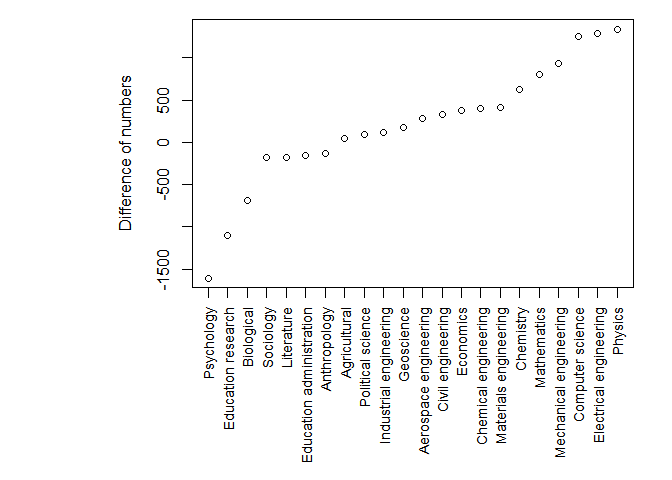
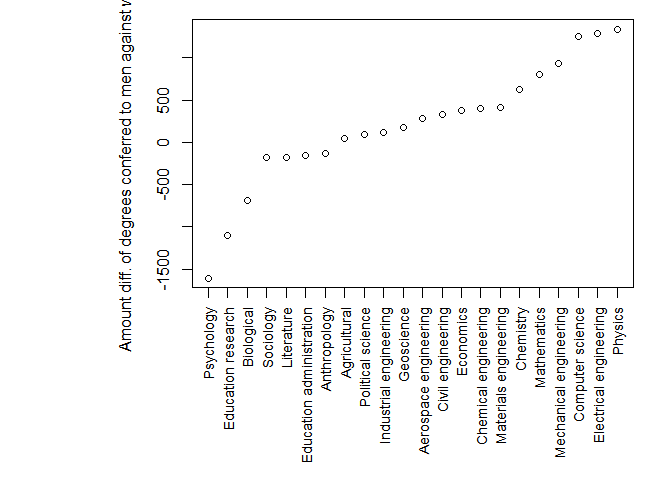
Minor revisions

diff --git a/PhD_Gender_Gaps_v2.md b/PhD_Gender_Gaps_v2.md
@@ -3,42 +3,60 @@ Job Market Analysis for PhD Graduates
 Xu Dong
 February 21, 2018
 
-Gender Gaps in PhD Graduates
-----------------------------
+1. Quantifying Gender Gaps in PhD Programs
+==========================================
+
+Figure 1.1 Trend of PhD's degrees conferred to women by programs in the US (1997-2016)
+--------------------------------------------------------------------------------------
+
+In Figure 1.1, a trend transition point is identified: from 1997 to 2007, the percentage of PhD degrees conferred to women increased across all majors; after 2007, these rates kept steady for 10 years.
 
 <img src="2nd_plot.png" alt="b" width="700" />
 
-PhD jobs by majors
-------------------
+Figure 1.2 The difference amount of PhD's degrees conferred to men against women (By Major)
+-------------------------------------------------------------------------------------------
+
+22 representative majors were presented in Figure 1.2. The gender disparty in PhD majors were identified: women tended to earn PhD degrees in majors such as Psychology, Education, and Biological sciences, while men were likely to earn PhD degrees in majors such as Computer science, Electrical/Electronic Engineering, and Physics.
 
 ![](PhD_Gender_Gaps_v2_files/figure-markdown_github/job_major-1.png)
 
-PhD jobs posted on indeed.com
------------------------------
+Analyzing recent Jobs Postings on indeed.com that required/preferred a PhD degree
+=================================================================================
 
     ## ERROR : Failed to parse text
 
-Plot 1
-------
+Figure 1.3 Major occurrences(%) in PhD Job Postings on indeed.com
+=================================================================
 
-![](PhD_Gender_Gaps_v2_files/figure-markdown_github/gap-1.png)
-
-Plot 2
-------
+Not suprisingly, Computer and information sciences are among the most demanding majors. Employered also had demands for PhDs in Majors such as Chemistry, Physics, and Maths, due to the high-level knowledge specilizations and requirements, which differentiate the job market for PhDs than for others.
 
 ![](PhD_Gender_Gaps_v2_files/figure-markdown_github/unnamed-chunk-1-1.png)
 
-Job locations for PhDs
-----------------------
+Figure 1.4 Gender Gaps of Job Opportunities Induced by PhD programs
+-------------------------------------------------------------------
+
+Each data point represents a PhD major analyzed previously. More job opportunities are associated with majors in which men have advantages in the graduation amount. It shows the gender gaps of job opportunities induced by PhD programs.
+
+![](PhD_Gender_Gaps_v2_files/figure-markdown_github/gap-1.png)
+
+2. Does my school location matter? Quantifying Location Privilege for post-PhD career
+-------------------------------------------------------------------------------------
+
+Under an assumption that employers prefer to recruit talents in local areas, this analysis tends to find whether the program location will give PhD graduates a privilege for finding a PhD-level job.
+
+Figure 2.1 Job for PhDs (Data scrapped from indeed.com)
+-------------------------------------------------------
 
 ![](PhD_Gender_Gaps_v2_files/figure-markdown_github/job_location-1.png)
 
-PhD degree conferred by states
-------------------------------
+Figure 2.2 PhD degree conferred by states (Data scrapped from indeed.com)
+-------------------------------------------------------------------------
 
 ![](PhD_Gender_Gaps_v2_files/figure-markdown_github/degree_by_state-1.png)
 
-PhD Job Index by states
------------------------
+Figure 2.3 PhD Job Index by states
+----------------------------------
+
+By simply dividing the job posting amount by for each state in the US, I proposed a measure, called *Location Privilege Index (LPI)*, to quantify the job finding privilege induced by location for post-PhD career.
 
 ![](PhD_Gender_Gaps_v2_files/figure-markdown_github/index-1.png)
